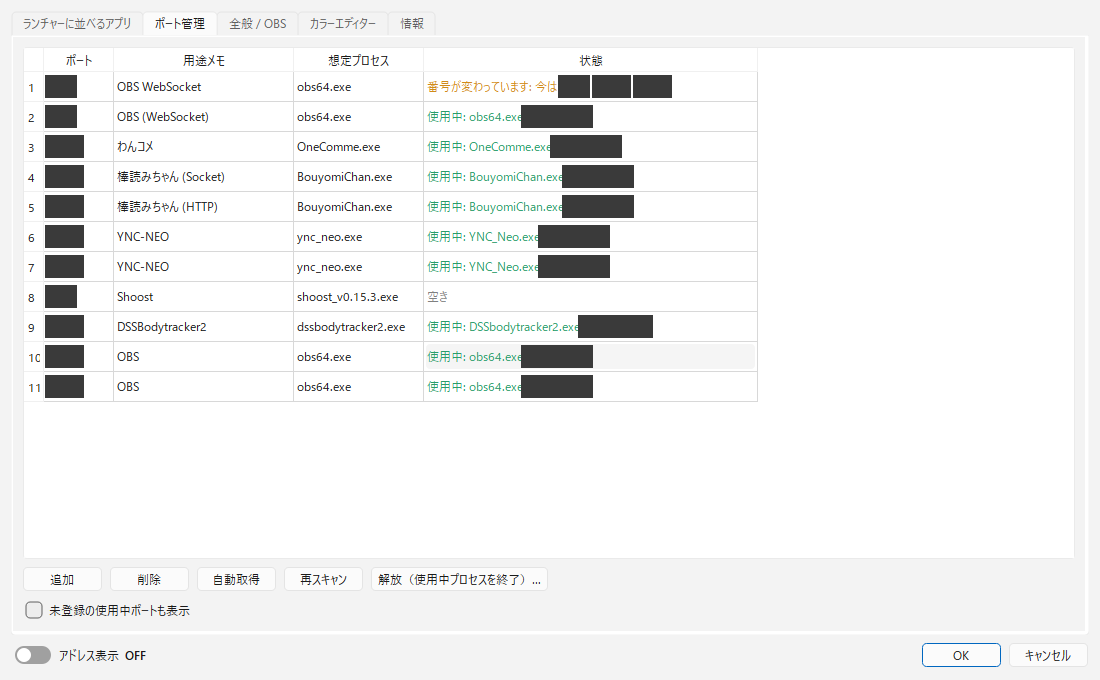
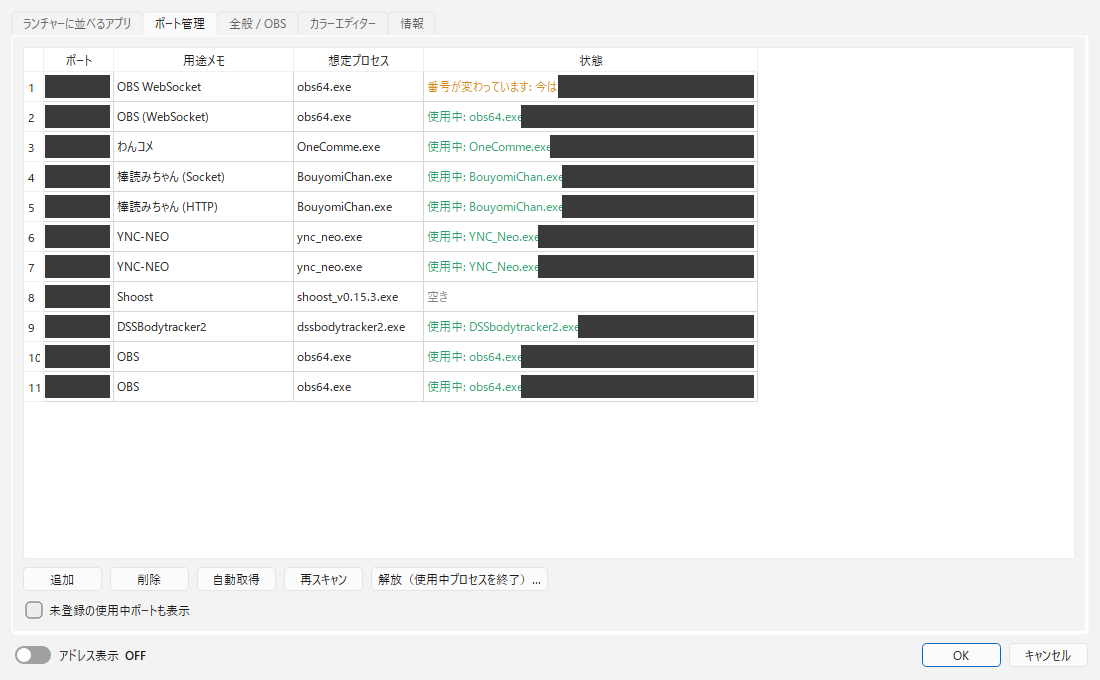
DDLauncher 1.0.0
First stable release. No feature changes from 0.3.2.

- README: screenshots of the launcher, the D&D space and the right-click
  menus, taken from the real app
- README: screenshots in one compact row at the top; color editor and
  menu screenshots moved next to the text that explains them; the Info
  tab screenshot was dropped
- README screenshots fully cover port numbers and the OBS password field

Changed region(s): [[0.5255, 0.0926, 0.7109, 0.4324], [0.0618, 0.0926, 0.1236, 0.5868], [0.5255, 0.4632, 0.7109, 0.5868]]

diff --git a/about.py b/about.py
@@ -7,7 +7,7 @@ import sys
 
 import config
 
-VERSION = "0.3.2"
+VERSION = "1.0.0"
 DEVELOPER = "ChromeBread feat. BlackDream"
 
 FROZEN = getattr(sys, "frozen", False)   # running as the PyInstaller exe

diff --git a/README.fr.md b/README.fr.md
@@ -13,12 +13,9 @@ Un lanceur léger pour streamers, qui reste discrètement dans un coin de l'écr
 - En temps normal, seule une petite icône reste dans le coin ; le lanceur ne s'ouvre qu'au survol.
 
 <p>
-<img src="docs/images/launcher-en.png" alt="Lanceur" height="300">
-<img src="docs/images/settings-apps-en.png" alt="Paramètres : applis du lanceur et chronologie de la séquence de lancement" width="600">
-</p>
-<p>
-<img src="docs/images/settings-colors-en.png" alt="Éditeur de couleurs" width="420">
-<img src="docs/images/settings-info-en.png" alt="Page Infos : langue, version, date de build, Debug Mode" width="420">
+<img src="docs/images/launcher-en.png" alt="Lanceur" height="260">
+<img src="docs/images/dnd-en.png" alt="Mode D&D : le lanceur et l'espace D&D" height="260">
+<img src="docs/images/settings-apps-en.png" alt="Paramètres : applis du lanceur et chronologie de la séquence de lancement" height="260">
 </p>
 
 ## Configuration requise
@@ -33,8 +30,8 @@ Téléchargez l'une des deux versions dans [Releases](https://github.com/ChromeB
 
 | Version | Fichier | Pour qui |
 |---|---|---|
-| Installateur | `DDLauncher-0.3.2-windows-x64-setup.exe` | Une entrée dans le menu Démarrer, et la désinstallation depuis « Applications » de Windows |
-| Autonome | `DDLauncher-0.3.2-windows-x64-portable.zip` | Sans installation. Supprimez le dossier pour l'enlever |
+| Installateur | `DDLauncher-1.0.0-windows-x64-setup.exe` | Une entrée dans le menu Démarrer, et la désinstallation depuis « Applications » de Windows |
+| Autonome | `DDLauncher-1.0.0-windows-x64-portable.zip` | Sans installation. Supprimez le dossier pour l'enlever |
 
 - Version autonome : décompressez-la où vous voulez et lancez `DDLauncher.exe`.
 - L'exe n'est pas signé : au premier lancement, Windows SmartScreen (« Windows a protégé votre ordinateur ») ou votre antivirus peut afficher un avertissement. Cliquez sur « Informations complémentaires » → « Exécuter quand même ». Pour vérifier d'abord, lancez-le depuis les sources (voir « Pour les développeurs » plus bas).
@@ -57,6 +54,11 @@ Téléchargez l'une des deux versions dans [Releases](https://github.com/ChromeB
 - **Boutons de l'en-tête** : `▲▼` faire tourner l'ordre / `D&D` activer le mode D&D / `▶` démarrer ou arrêter la séquence (si activé dans les paramètres) / `⚙` paramètres / `?` aide
 - **Icône de la zone de notification** : un clic affiche le lanceur. Clic droit pour démarrer la séquence ou quitter.
 - **Fenêtres de paramètres / d'aide** : s'ouvrent là où elles ne cachent pas le lanceur (l'espace libre au-dessus, en dessous, à gauche ou à droite).
+
+<p>
+<img src="docs/images/menu-tile-en.png" alt="Menu clic droit d'une icône">
+<img src="docs/images/menu-launcher-en.png" alt="Menu clic droit du lanceur">
+</p>
 
 ### Affichage
 
@@ -112,13 +114,16 @@ Quand OBS tourne en administrateur, les fichiers déposés depuis l’Explorateu
 
 - **Applis du lanceur** : glissez les lignes (ou utilisez ↑↓) pour les réordonner. Survolez un en-tête de colonne pour son explication.
   - « + Ajouter une appli… » choisit un exe ou un raccourci et remplit le nom et le chemin. « + Ajouter une adresse web » ajoute une ligne pour une URL ; la colonne « Navigateur » choisit le navigateur qui l'ouvre (le navigateur par défaut si vous n'y touchez pas). Les noms des tuiles s'affichent en majuscules ; pour les afficher tels que saisis, décochez ⚙ → « Casse des noms ».
+  - Clic droit sur une ligne pour choisir quoi modifier (les champs texte s'ouvrent à la saisie, les cases se cochent, les listes s'ouvrent), ou pour choisir l'appli / l'image d'icône.<br>
+    <img src="docs/images/menu-apps-en.png" alt="Menu clic droit du tableau des applis">
   - Si « Image d'icône » est vide, l'icône de l'exe est utilisée, ou celle du site quand le chemin est une URL. Mettez une adresse web dans « Image d'icône » pour utiliser l'icône de ce site (ou l'image elle-même, pour l'adresse d'une image). Les icônes des sites sont téléchargées une fois et gardées sur ce PC : si un site change d'icône, l'ancienne reste. Réglez ⚙ → « Icônes des sites » sur « Retélécharger à chaque démarrage » pour les mettre à jour à chaque lancement de DDLauncher.
   - Une ligne supprimée revient avec ↶ (Ctrl+Z). La chronologie sous le tableau montre combien de secondes après le début chaque appli se lance.
   - « Écran de destination » déplace la fenêtre de l'appli vers cet écran après le lancement. Les applis lancées en administrateur ne peuvent pas être déplacées à cause d'une restriction de Windows.<br>
     <img src="locales/help/img/monitor.png" alt="Déplacer une fenêtre vers un autre écran" width="480">
 - **Ports** : enregistrez vos ports pour voir s'ils sont libres, utilisés ou en conflit (utilisés par un processus inattendu, ou enregistrés deux fois). « Libérer » ferme le processus qui utilise ce port (après confirmation). « Détecter » ajoute les ports utilisés par vos applis (OBS depuis ses paramètres WebSocket, les autres quand elles tournent). Certains lecteurs de commentaires et logiciels de synthèse vocale courants chez les streamers sont lus dans leurs fichiers de réglages, donc trouvés même fermés. Vous choisissez les ports à ajouter, et un avertissement s’affiche si deux applis reliées ne sont pas d’accord sur un port.<br>
   <img src="docs/images/settings-ports-en.png" alt="État des ports" width="600">
-- **Éditeur de couleurs** : opacité, couleurs (par défaut / personnalisées) et six modèles. Les changements s'appliquent tout de suite au lanceur, et Annuler les rétablit.
+- **Éditeur de couleurs** : opacité, couleurs (par défaut / personnalisées) et six modèles. Les changements s'appliquent tout de suite au lanceur, et Annuler les rétablit.<br>
+  <img src="docs/images/settings-colors-en.png" alt="Éditeur de couleurs" width="420">
 - **Infos** : langue de l'interface, version, date de compilation, nom du développeur et interrupteur Debug Mode.
   - **Debug Mode** : export / import des paramètres, entre autres.
 
@@ -156,7 +161,7 @@ Pour créer la version dossier (`dist\DDLauncher\`) et l'installateur (l'install
 ```powershell
 .venv\Scripts\pip install pyinstaller
 .venv\Scripts\pyinstaller DDLauncher.spec
-iscc /DAppVersion=0.3.2 installer\DDLauncher.iss
+iscc /DAppVersion=1.0.0 installer\DDLauncher.iss
 ```
 
 ### Fichiers

diff --git a/README.id.md b/README.id.md
@@ -13,12 +13,9 @@ Launcher ringan untuk streamer yang selalu standby di pojok layar (Windows).
 - Biasanya hanya menampilkan satu ikon kecil di pojok, dan baru terbuka saat kursor diarahkan ke sana.
 
 <p>
-<img src="docs/images/launcher-en.png" alt="Launcher" height="300">
-<img src="docs/images/settings-apps-en.png" alt="Pengaturan: aplikasi di launcher dan linimasa urutan peluncuran" width="600">
-</p>
-<p>
-<img src="docs/images/settings-colors-en.png" alt="Editor warna" width="420">
-<img src="docs/images/settings-info-en.png" alt="Halaman info: bahasa, versi, tanggal build, Debug Mode" width="420">
+<img src="docs/images/launcher-en.png" alt="Launcher" height="260">
+<img src="docs/images/dnd-en.png" alt="Mode D&D: launcher dan ruang D&D" height="260">
+<img src="docs/images/settings-apps-en.png" alt="Pengaturan: aplikasi di launcher dan linimasa urutan peluncuran" height="260">
 </p>
 
 ## Kebutuhan sistem
@@ -33,8 +30,8 @@ Unduh salah satu dari [Releases](https://github.com/ChromeBread/DDLauncher/relea
 
 | Versi | File | Cocok untuk |
 |---|---|---|
-| Installer | `DDLauncher-0.3.2-windows-x64-setup.exe` | Masuk ke menu Start, dan bisa dihapus dari "Aplikasi" di Windows |
-| Standalone | `DDLauncher-0.3.2-windows-x64-portable.zip` | Tanpa instalasi. Hapus foldernya untuk mencopot |
+| Installer | `DDLauncher-1.0.0-windows-x64-setup.exe` | Masuk ke menu Start, dan bisa dihapus dari "Aplikasi" di Windows |
+| Standalone | `DDLauncher-1.0.0-windows-x64-portable.zip` | Tanpa instalasi. Hapus foldernya untuk mencopot |
 
 - Standalone: ekstrak di mana saja lalu jalankan `DDLauncher.exe`.
 - Exe-nya tidak bertanda tangan, jadi saat pertama dijalankan Windows SmartScreen ("Windows melindungi PC Anda") atau antivirus bisa memberi peringatan. Klik "Info selengkapnya" → "Tetap jalankan". Jika ingin memeriksa dulu, jalankan dari kode sumber (lihat "Untuk developer" di bawah).
@@ -57,6 +54,11 @@ Unduh salah satu dari [Releases](https://github.com/ChromeBread/DDLauncher/relea
 - **Tombol di header**: `▲▼` memutar urutan / `D&D` ganti mode D&D / `▶` mulai atau hentikan urutan (jika ditampilkan di pengaturan) / `⚙` pengaturan / `?` bantuan
 - **Ikon tray**: klik untuk menampilkan launcher. Klik kanan untuk memulai urutan atau keluar.
 - **Jendela pengaturan / bantuan**: terbuka di posisi yang tidak menutupi launcher (ruang kosong di atas, bawah, kiri, atau kanan).
+
+<p>
+<img src="docs/images/menu-tile-en.png" alt="Menu klik kanan ikon">
+<img src="docs/images/menu-launcher-en.png" alt="Menu klik kanan launcher">
+</p>
 
 ### Tampilan
 
@@ -112,13 +114,16 @@ Saat OBS berjalan sebagai administrator, file yang dijatuhkan dari Explorer tida
 
 - **Aplikasi di launcher**: seret baris (atau gunakan ↑↓) untuk mengubah urutan. Arahkan kursor ke judul kolom untuk penjelasan.
   - "+ Tambah aplikasi…" memilih exe atau pintasan lalu mengisi nama dan path-nya. "+ Tambah alamat web" menambahkan baris untuk URL; kolom "Browser" memilih browser yang membukanya (browser default bila dibiarkan). Nama di ubin ditampilkan dengan huruf kapital; untuk menampilkannya sesuai ketikan, matikan ⚙ → "Huruf nama".
+  - Klik kanan sebuah baris untuk memilih yang ingin diedit (kolom teks siap diketik, centang berganti, daftar pilihan terbuka), atau untuk memilih aplikasi / gambar ikon.<br>
+    <img src="docs/images/menu-apps-en.png" alt="Menu klik kanan tabel aplikasi">
   - Jika "Gambar ikon" kosong, ikon exe yang dipakai, atau ikon situs bila path berupa URL. Isi "Gambar ikon" dengan alamat web untuk memakai ikon situs itu (atau gambarnya langsung, untuk alamat gambar). Ikon situs diunduh sekali dan disimpan di PC ini, jadi jika situs mengganti ikonnya, yang lama tetap dipakai; atur ⚙ → "Ikon situs" ke "Ambil ulang setiap mulai" agar diperbarui setiap DDLauncher dijalankan.
   - Baris yang dihapus bisa dikembalikan dengan ↶ (Ctrl+Z). Linimasa di bawah tabel menunjukkan berapa detik setelah mulai tiap aplikasi dijalankan.
   - "Pindah ke monitor" memindahkan jendela aplikasi ke monitor itu setelah dijalankan. Aplikasi yang dijalankan sebagai administrator tidak bisa dipindahkan karena batasan Windows.<br>
     <img src="locales/help/img/monitor.png" alt="Memindahkan jendela ke monitor lain" width="480">
 - **Port**: daftarkan port yang dipakai untuk melihat apakah kosong, dipakai, atau bentrok (dipakai proses tak terduga, atau terdaftar dua kali). "Bebaskan" menutup proses yang memakai port itu (dengan konfirmasi). "Deteksi" menambahkan port yang dipakai aplikasi terdaftar (OBS dari pengaturan WebSocket-nya, aplikasi lain saat sedang berjalan). Sebagian penampil komentar dan aplikasi pembaca teks yang populer di kalangan streamer dibaca dari file pengaturannya, sehingga tetap ditemukan walau tertutup. Anda memilih port mana yang ditambahkan, dan akan diberi tahu bila dua aplikasi yang saling terhubung memakai port yang berbeda.<br>
   <img src="docs/images/settings-ports-en.png" alt="Status port" width="600">
-- **Editor warna**: opasitas, warna (bawaan / kustom) dan enam templat. Perubahan langsung tampil di launcher, dan Batal mengembalikannya.
+- **Editor warna**: opasitas, warna (bawaan / kustom) dan enam templat. Perubahan langsung tampil di launcher, dan Batal mengembalikannya.<br>
+  <img src="docs/images/settings-colors-en.png" alt="Editor warna" width="420">
 - **Info**: bahasa tampilan, versi, tanggal build, nama pengembang, dan tombol Debug Mode.
   - **Debug Mode**: ekspor / impor pengaturan, dan lainnya.
 
@@ -156,7 +161,7 @@ Untuk membuat versi folder (`dist\DDLauncher\`) dan installer (installer memerlu
 ```powershell
 .venv\Scripts\pip install pyinstaller
 .venv\Scripts\pyinstaller DDLauncher.spec
-iscc /DAppVersion=0.3.2 installer\DDLauncher.iss
+iscc /DAppVersion=1.0.0 installer\DDLauncher.iss
 ```
 
 ### Daftar file

diff --git a/README.md b/README.md
@@ -13,12 +13,9 @@ A lightweight launcher for streamers that sits in a corner of the screen (Window
 - Normally shows just one small icon in the corner, and opens only when you hover over it.
 
 <p>
-<img src="docs/images/launcher-en.png" alt="Launcher" height="300">
-<img src="docs/images/settings-apps-en.png" alt="Settings: apps on the launcher and the launch-sequence timeline" width="600">
-</p>
-<p>
-<img src="docs/images/settings-colors-en.png" alt="Color editor" width="420">
-<img src="docs/images/settings-info-en.png" alt="Info page: language, version, build date, Debug Mode" width="420">
+<img src="docs/images/launcher-en.png" alt="Launcher" height="260">
+<img src="docs/images/dnd-en.png" alt="D&D mode: the launcher and the D&D space" height="260">
+<img src="docs/images/settings-apps-en.png" alt="Settings: apps on the launcher and the launch-sequence timeline" height="260">
 </p>
 
 ## Requirements
@@ -33,8 +30,8 @@ Download one of these from [Releases](https://github.com/ChromeBread/DDLauncher/
 
 | Version | File | Good for |
 |---|---|---|
-| Installer | `DDLauncher-0.3.2-windows-x64-setup.exe` | A Start menu entry, and removal from Windows "Apps" |
-| Standalone | `DDLauncher-0.3.2-windows-x64-portable.zip` | No installation. Delete the folder to remove it |
+| Installer | `DDLauncher-1.0.0-windows-x64-setup.exe` | A Start menu entry, and removal from Windows "Apps" |
+| Standalone | `DDLauncher-1.0.0-windows-x64-portable.zip` | No installation. Delete the folder to remove it |
 
 - Standalone: unzip it anywhere and run `DDLauncher.exe`.
 - The exe isn't signed, so on first launch Windows SmartScreen ("Windows protected your PC") or your antivirus may warn you. Click "More info" → "Run anyway". If you'd rather check first, run it from source (see "For developers" below).
@@ -57,6 +54,11 @@ Download one of these from [Releases](https://github.com/ChromeBread/DDLauncher/
 - **Header buttons**: `▲▼` rotate the order / `D&D` toggle D&D mode / `▶` start or stop the sequence (if enabled in the settings) / `⚙` settings / `?` help
 - **Tray icon**: click to show the launcher. Right-click to start the sequence or quit.
 - **Settings / help windows**: open where they don't cover the launcher (whichever free space above, below, left or right fits).
+
+<p>
+<img src="docs/images/menu-tile-en.png" alt="Right-click menu of an icon">
+<img src="docs/images/menu-launcher-en.png" alt="Right-click menu of the launcher">
+</p>
 
 ### Display
 
@@ -112,13 +114,16 @@ Even when OBS runs as administrator and refuses drops from Explorer, dropping on
 
 - **Apps on the launcher**: drag rows (or use ↑↓) to reorder. Hover a column heading for an explanation.
   - "+ Add app…" picks an exe or shortcut and fills in the name and path for you. "+ Add web address" adds a row for a URL; the "Browser" column chooses which browser opens it (your default browser if left as is). Names on the tiles are shown in capitals; to show them as typed, turn off ⚙ → "Name case".
+  - Right-click a row to pick what to edit (text fields open for typing, checkboxes toggle, drop-downs open), or to choose the app / icon image.<br>
+    <img src="docs/images/menu-apps-en.png" alt="Right-click menu of the apps table">
   - If "Icon image" is empty, the exe's icon is used, or the site's icon when the path is a URL. Put a web address in "Icon image" to use that site's icon (or the image itself, for an image's address). Site icons are downloaded once and kept on this PC, so a site that changes its icon keeps the old one; set ⚙ → "Site icons" to "Fetch again at every start" to refresh them each time DDLauncher starts.
   - A removed row comes back with ↶ (Ctrl+Z). The timeline under the table shows how many seconds after the start each app launches.
   - "Move to monitor" moves the app's window to that monitor after it starts. Apps started as administrator can't be moved because of a Windows restriction.<br>
     <img src="locales/help/img/monitor.png" alt="Moving a window to another monitor" width="480">
 - **Ports**: register the ports you use to see whether each is free, in use, or in conflict (used by an unexpected process, or registered twice). "Free up" closes the process using that port (after a confirmation). "Detect" adds the ports your registered apps use (OBS from its WebSocket settings, other apps while they are running). Some comment viewers and text-to-speech tools popular with streamers are read from their settings files, so they are found even when closed. You choose which of the found ports to add, and it warns you if two linked apps disagree on a port.<br>
   <img src="docs/images/settings-ports-en.png" alt="Port status" width="600">
-- **Color editor**: opacity, colors (default / custom) and six templates. Changes show on the launcher right away, and Cancel puts them back.
+- **Color editor**: opacity, colors (default / custom) and six templates. Changes show on the launcher right away, and Cancel puts them back.<br>
+  <img src="docs/images/settings-colors-en.png" alt="Color editor" width="420">
 - **Info**: language, version, build date, developer credit and the Debug Mode switch.
   - **Debug Mode**: settings export / import, and more.
 
@@ -156,7 +161,7 @@ To build the folder version (`dist\DDLauncher\`) and the installer (the installe
 ```powershell
 .venv\Scripts\pip install pyinstaller
 .venv\Scripts\pyinstaller DDLauncher.spec
-iscc /DAppVersion=0.3.2 installer\DDLauncher.iss
+iscc /DAppVersion=1.0.0 installer\DDLauncher.iss
 ```
 
 ### Files

diff --git a/README.zh-TW.md b/README.zh-TW.md
@@ -13,12 +13,9 @@
 - 平常只在角落放一個小圖示，滑鼠移上去時才展開。
 
 <p>
-<img src="docs/images/launcher-en.png" alt="啟動器" height="300">
-<img src="docs/images/settings-apps-en.png" alt="設定畫面：啟動器上的應用程式與啟動順序時間軸" width="600">
-</p>
-<p>
-<img src="docs/images/settings-colors-en.png" alt="色彩編輯器" width="420">
-<img src="docs/images/settings-info-en.png" alt="資訊頁面：語言、版本、建置日期、Debug Mode" width="420">
+<img src="docs/images/launcher-en.png" alt="啟動器" height="260">
+<img src="docs/images/dnd-en.png" alt="D&D 模式：啟動器與 D&D 區域" height="260">
+<img src="docs/images/settings-apps-en.png" alt="設定畫面：啟動器上的應用程式與啟動順序時間軸" height="260">
 </p>
 
 ## 執行環境
@@ -33,8 +30,8 @@
 
 | 版本 | 檔案 | 適合 |
 |---|---|---|
-| 安裝版 | `DDLauncher-0.3.2-windows-x64-setup.exe` | 想登錄到開始功能表，並從 Windows「應用程式」移除 |
-| 免安裝版 | `DDLauncher-0.3.2-windows-x64-portable.zip` | 不想安裝。整個資料夾刪掉即可移除 |
+| 安裝版 | `DDLauncher-1.0.0-windows-x64-setup.exe` | 想登錄到開始功能表，並從 Windows「應用程式」移除 |
+| 免安裝版 | `DDLauncher-1.0.0-windows-x64-portable.zip` | 不想安裝。整個資料夾刪掉即可移除 |
 
 - 免安裝版：把 zip 解壓縮到任意位置，執行 `DDLauncher.exe`。
 - 因為 exe 沒有簽章，第一次啟動時 Windows SmartScreen（「Windows 已保護您的電腦」）或防毒軟體可能會警告。點「其他資訊」→「仍要執行」即可啟動。若想先確認內容，請依下方「開發者資訊」中的「從原始碼執行」使用。
@@ -57,6 +54,11 @@
 - **標題列按鈕**：`▲▼` 轉動順序／`D&D` 切換模式／`▶` 開始・停止序列（在設定中顯示時）／`⚙` 設定／`?` 說明
 - **系統匣圖示**：點一下顯示啟動器。按右鍵可開始序列或結束。
 - **設定／說明視窗**：在不會擋住啟動器的位置（上・下・左・右的空位）開啟。
+
+<p>
+<img src="docs/images/menu-tile-en.png" alt="圖示的右鍵選單">
+<img src="docs/images/menu-launcher-en.png" alt="啟動器的右鍵選單">
+</p>
 
 ### 顯示
 
@@ -112,13 +114,16 @@ OBS 以系統管理員權限執行時，從檔案總管拖放的檔案到不了 
 
 - **啟動器上的應用程式**：拖曳列（或用 ↑↓）重新排序。滑鼠移到欄標題上可看各欄說明。
   - 用「＋ 新增應用程式…」選擇 exe 或捷徑，就會新增已填好顯示名稱與路徑的列。「＋ 新增網址」會新增網址用的列；網址可在「瀏覽器」欄選擇用哪個瀏覽器開啟（不變更則使用預設瀏覽器）。圖塊上的顯示名稱會以大寫顯示；想照輸入的樣子顯示時，請取消勾選 ⚙ →「顯示名稱」。
+  - 在列上按右鍵即可選擇要編輯的項目（文字欄可直接輸入、勾選會切換、下拉選單會展開），也能從這裡選擇應用程式或圖示圖片。<br>
+    <img src="docs/images/menu-apps-en.png" alt="應用程式表格的右鍵選單">
   - 「圖示圖片」留空時使用 exe 的圖示，路徑為 URL 時使用網站圖示。在圖示圖片填入網址，會使用該網站的圖示（若是圖片網址則使用該圖片）。網站圖示取得一次後會存在這台電腦上持續使用，所以網站換了圖示也會維持舊的；把 ⚙ →「網站圖示」設為「每次啟動時重新取得」，DDLauncher 每次啟動都會重新取得。
   - 刪除的列可用「↶」按鈕（Ctrl+Z）還原。表格下方的時間軸會顯示各應用程式在開始後幾秒啟動。
   - 選擇「啟動後移至的螢幕」後，啟動後會把視窗移到該螢幕。以系統管理員權限啟動的應用程式因 Windows 的限制無法移動。<br>
     <img src="locales/help/img/monitor.png" alt="把視窗移到其他螢幕" width="480">
 - **連接埠管理**：登錄使用的連接埠後，會顯示空閒／使用中／衝突（由非預期程序使用，或重複登錄）。「釋放」會結束正在使用該連接埠的程序（會先確認）。「自動取得」可以加入登錄的應用程式使用的連接埠（OBS 從 WebSocket 設定讀取，其他應用程式則在執行中時取得）。部分實況常用的留言檢視器與朗讀軟體會從設定檔讀取，所以沒開啟也找得到。可以從找到的連接埠中選擇要新增的項目；若互相連動的應用程式之間連接埠不一致，會提醒你。<br>
   <img src="docs/images/settings-ports-en.png" alt="連接埠狀態" width="600">
-- **色彩編輯器**：可選擇不透明度、配色（預設 / 自訂）與 6 種範本。變更的顏色會立即反映在啟動器上，按取消即還原。
+- **色彩編輯器**：可選擇不透明度、配色（預設 / 自訂）與 6 種範本。變更的顏色會立即反映在啟動器上，按取消即還原。<br>
+  <img src="docs/images/settings-colors-en.png" alt="色彩編輯器" width="420">
 - **資訊**：顯示語言、版本、建置日期、開發者標示，以及 Debug Mode 的切換。
   - **Debug Mode**：設定的匯出 / 匯入等。
 
@@ -156,7 +161,7 @@ py -m venv .venv
 ```powershell
 .venv\Scripts\pip install pyinstaller
 .venv\Scripts\pyinstaller DDLauncher.spec
-iscc /DAppVersion=0.3.2 installer\DDLauncher.iss
+iscc /DAppVersion=1.0.0 installer\DDLauncher.iss
 ```
 
 ### 檔案結構
